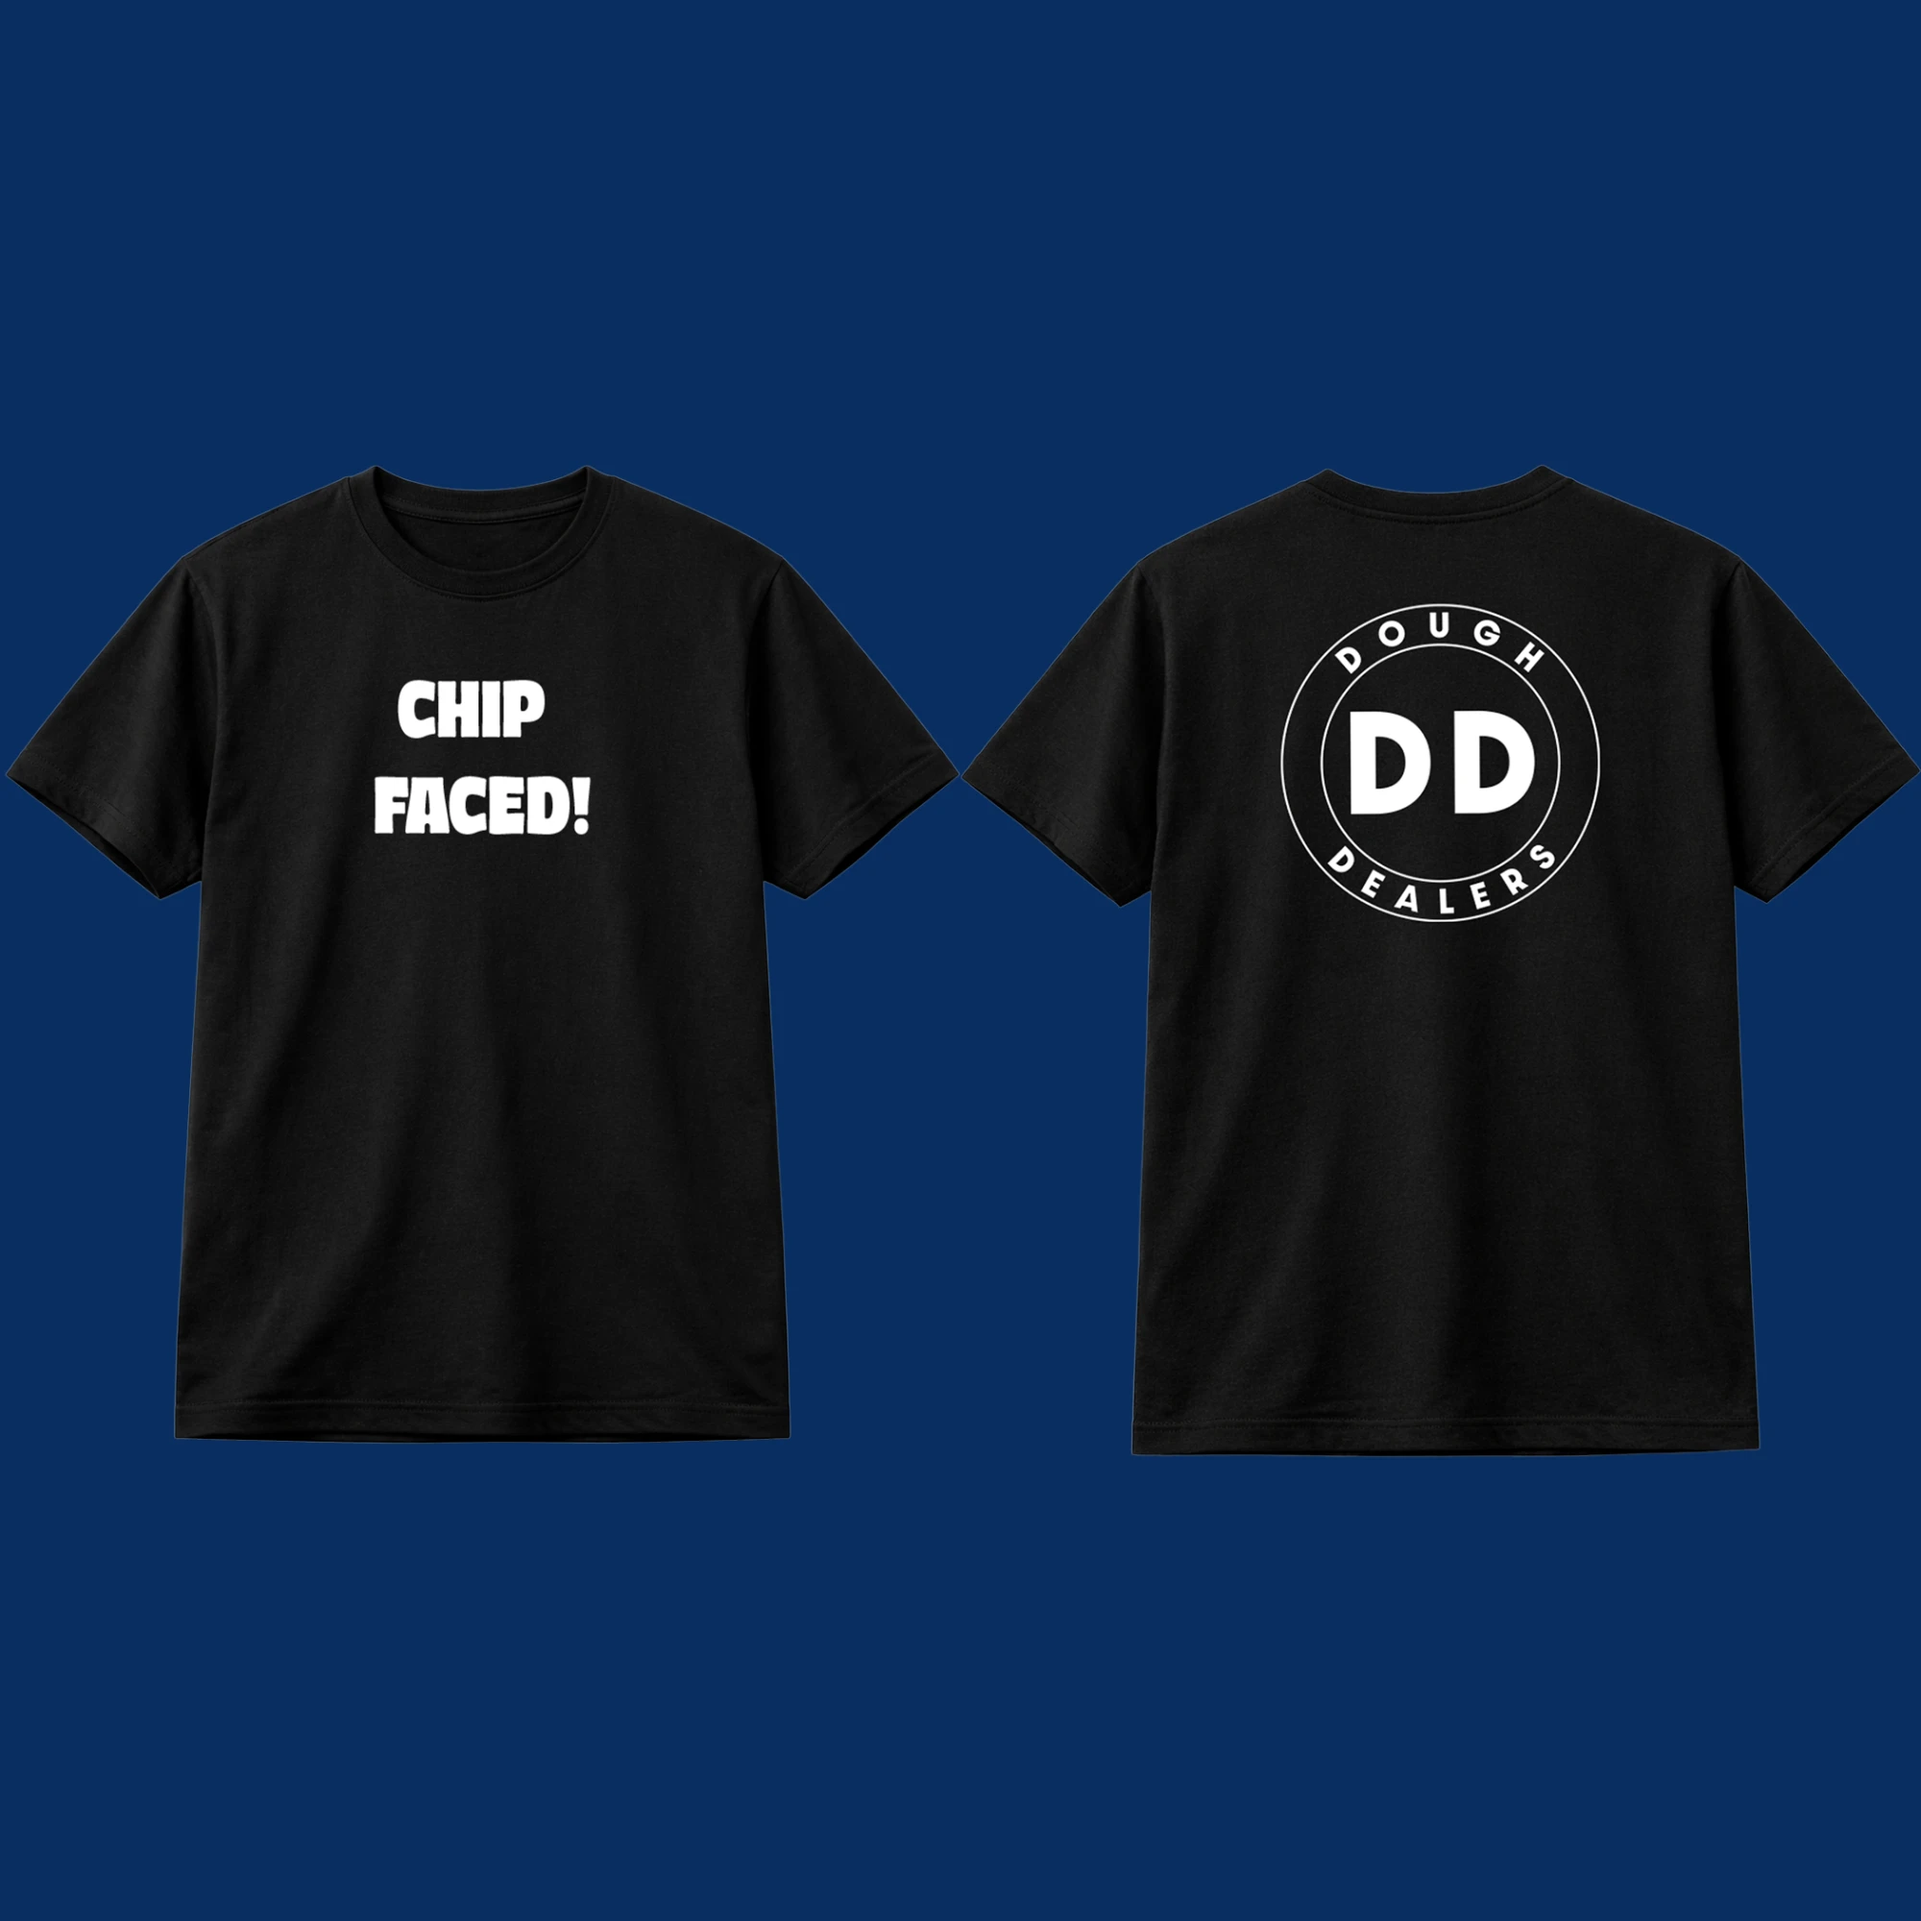
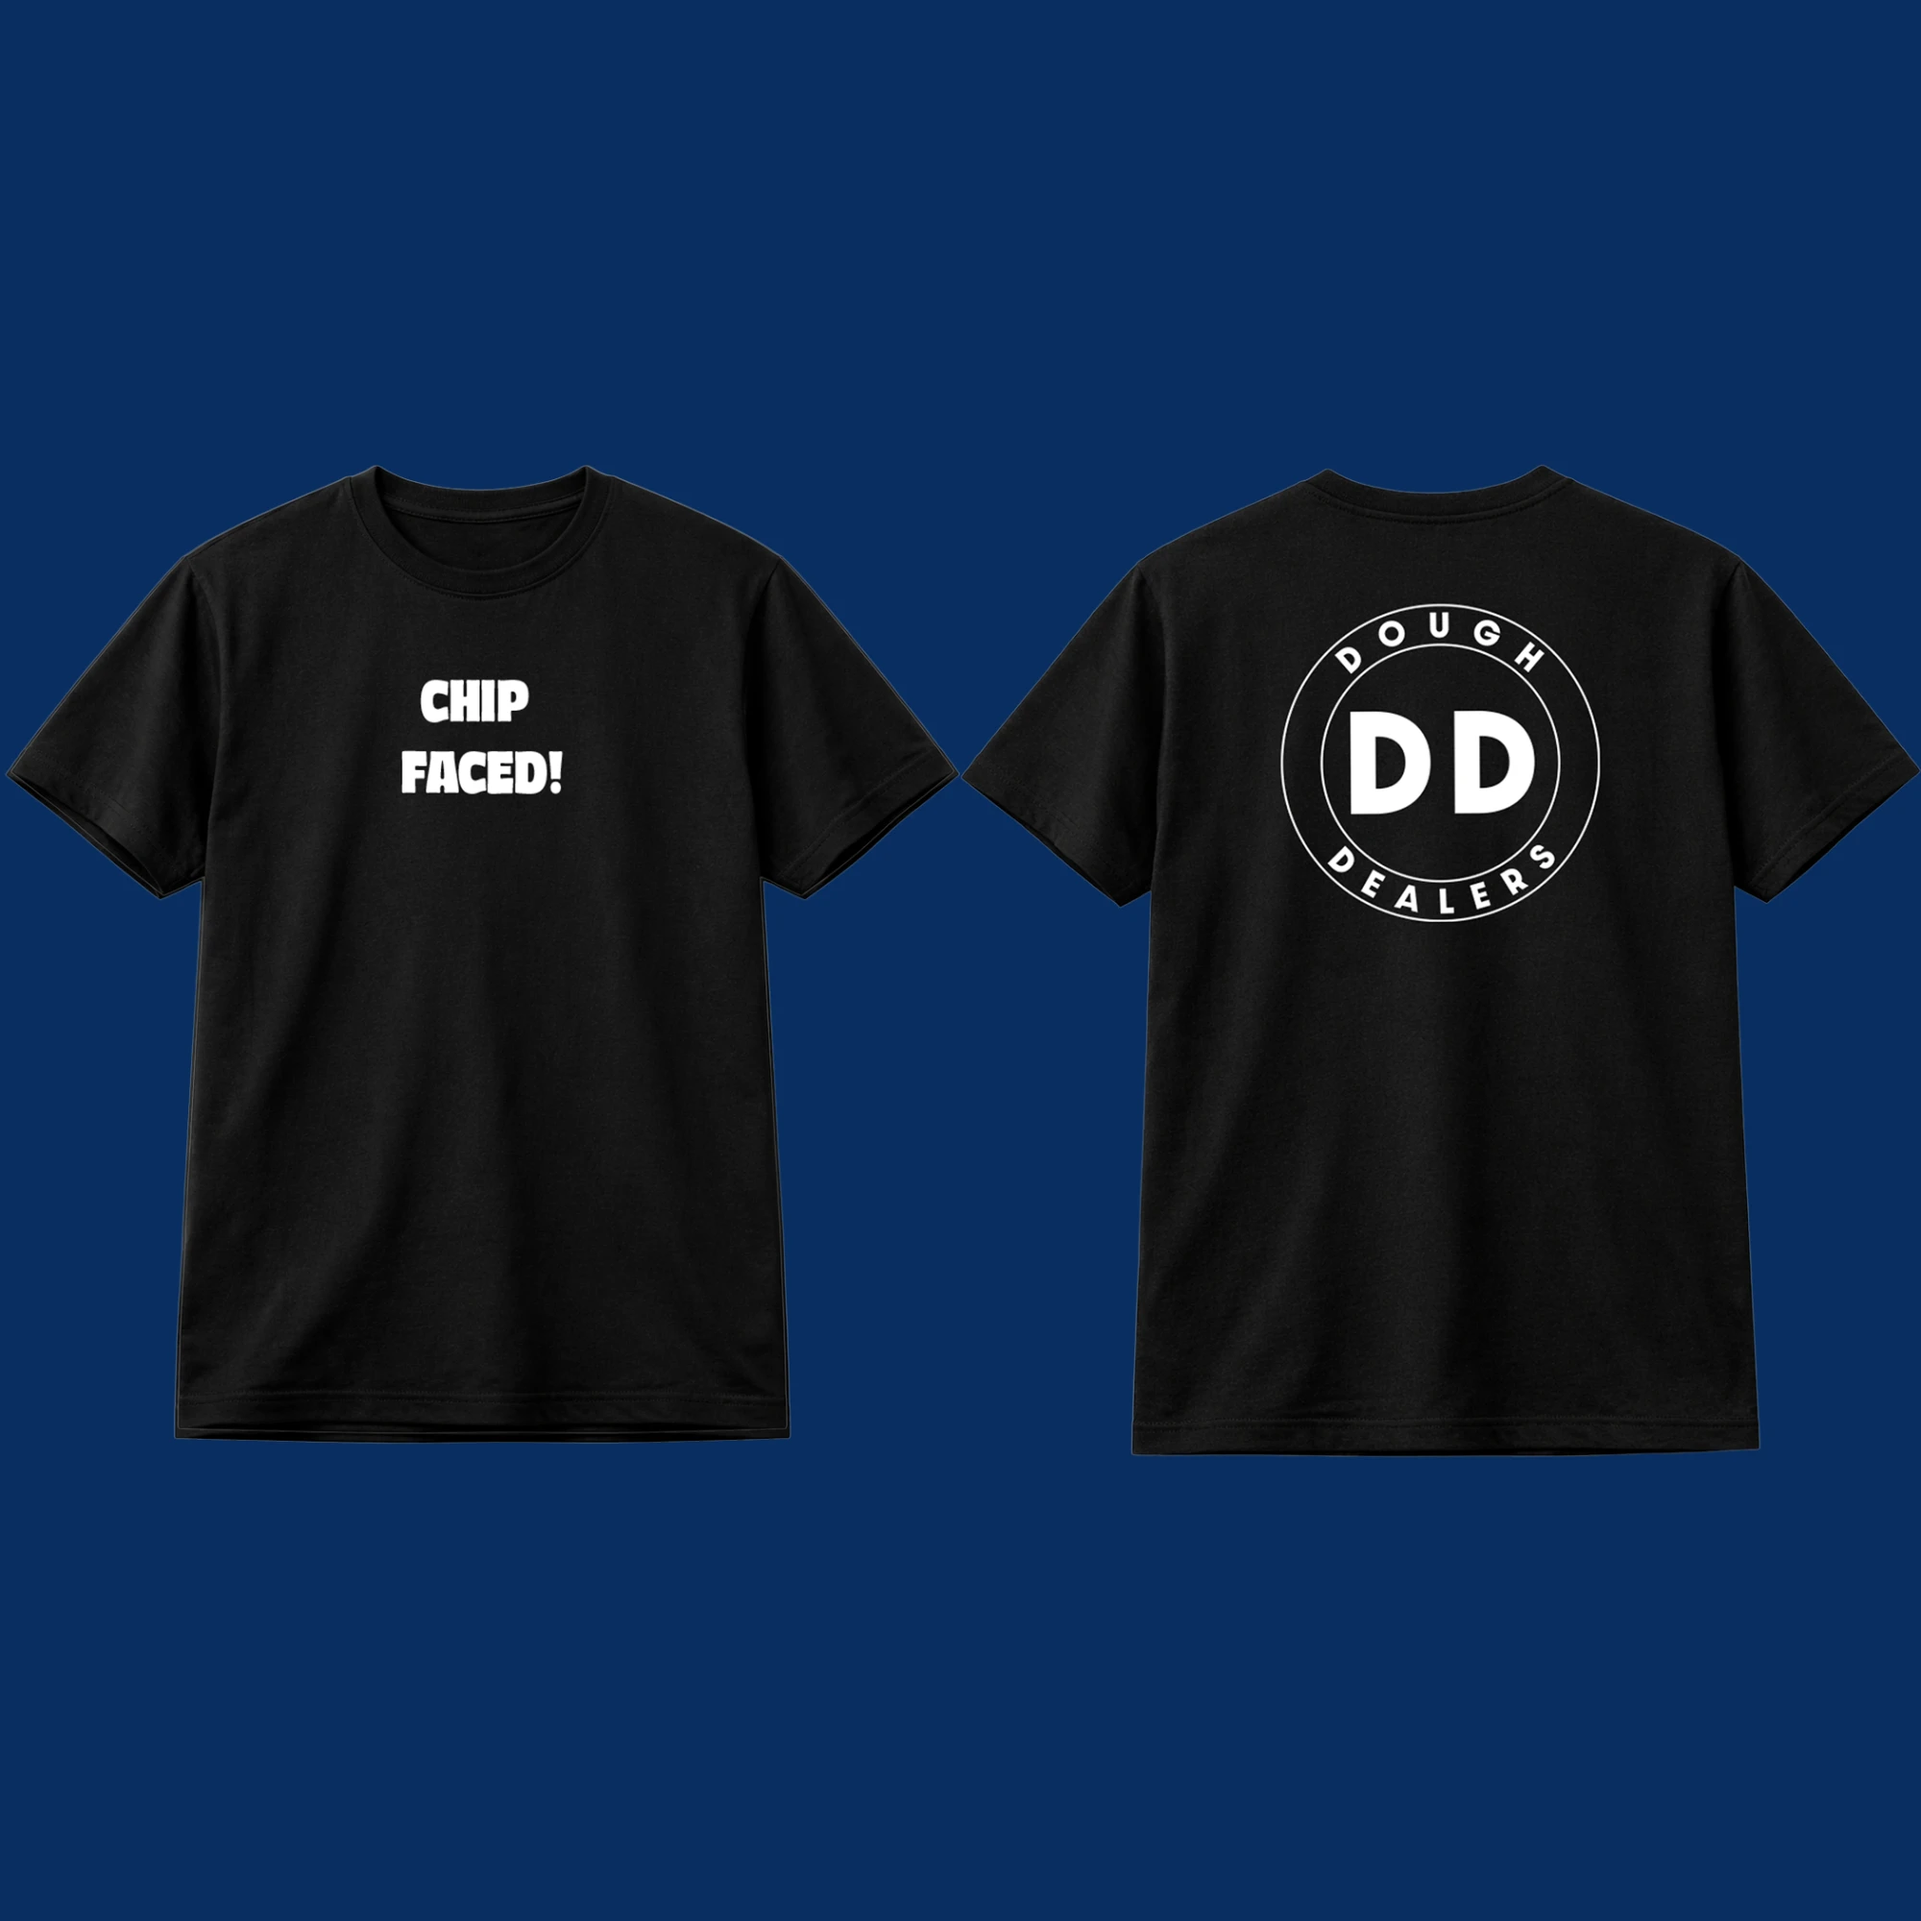
Add 5 new shirts and update Chip Faced, Dough Gang, Straight Chippin mockups

Changed region(s): [[0.186, 0.341, 0.31, 0.434]]

diff --git a/src/App.jsx b/src/App.jsx
@@ -20,14 +20,19 @@ import merchKing from './assets/merch/DoughKing.png'
 import merchQueen from './assets/merch/Doughqueen.png'
 import merchLife from './assets/merch/DoughLife.png'
 import merchMoney from './assets/merch/momoneyDoughProblems.png'
-import merchGang from './assets/merch/DoughGang.png'
+import merchGang from './assets/merch/DoughGang.webp'
 import merchChip from './assets/merch/ChipHappens.png'
 import merchTalkChip from './assets/merch/ILoveItWhenYouTalkChip.webp'
 import merchBCE from './assets/merch/BCE.png'
 import merchImTheChip from './assets/merch/ImTheChip.png'
 import merchChippinMe from './assets/merch/YouGotToBeChippinMe.png'
-import merchStraightChipping from './assets/merch/StraightChippin.png'
+import merchStraightChipping from './assets/merch/StraightChippin.webp'
 import merchShowMeChips from './assets/merch/ShowMeYourChips.png'
+import merchSameChipDifferentDay from './assets/merch/SameChipDifferentDay.webp'
+import merchNoChipSherlock from './assets/merch/NoChipSherlock.webp'
+import merchItsDoughTime from './assets/merch/ItsDoughTime.webp'
+import merchLetsDough from './assets/merch/LetsDough.webp'
+import merchHowWeDoughIt from './assets/merch/ThisIsHowWeDoughIt.webp'
 import merchChipGotReal from './assets/merch/ChipJustGotReal.webp'
 import merchAintThatSomeChip from './assets/merch/AintThatSomeChip.webp'
 import merchChipFaced from './assets/merch/ChipFaced.webp'
@@ -56,6 +61,9 @@ const DOUGH_SHIRTS = [
   { id: 13, name: 'Dough Gang',               img: merchGang },
   { id: 12, name: 'Mo Money Dough Problems',  img: merchMoney },
   { id: 14, name: 'Dough Getter',             img: merchDoughGetter },
+  { id: 35, name: "It's Dough Time!",         img: merchItsDoughTime },
+  { id: 36, name: "Let's Dough!!!",           img: merchLetsDough },
+  { id: 37, name: 'This Is How We Dough It!', img: merchHowWeDoughIt },
 ]
 
 const CHIP_SHIRTS = [
@@ -78,6 +86,8 @@ const CHIP_SHIRTS = [
   { id: 30, name: 'Holy Chip!',               img: merchHolyChip },
   { id: 31, name: "I Don't Give A Chip!",     img: merchIDontGiveAChip },
   { id: 32, name: 'Who Gives A Chip!?',       img: merchWhoGivesAChip },
+  { id: 33, name: 'Same Chip Different Day',  img: merchSameChipDifferentDay },
+  { id: 34, name: 'No Chip Sherlock',         img: merchNoChipSherlock },
 ]
 
 const SIZES = ['S', 'M', 'L', 'XL', '2XL', '3XL']
